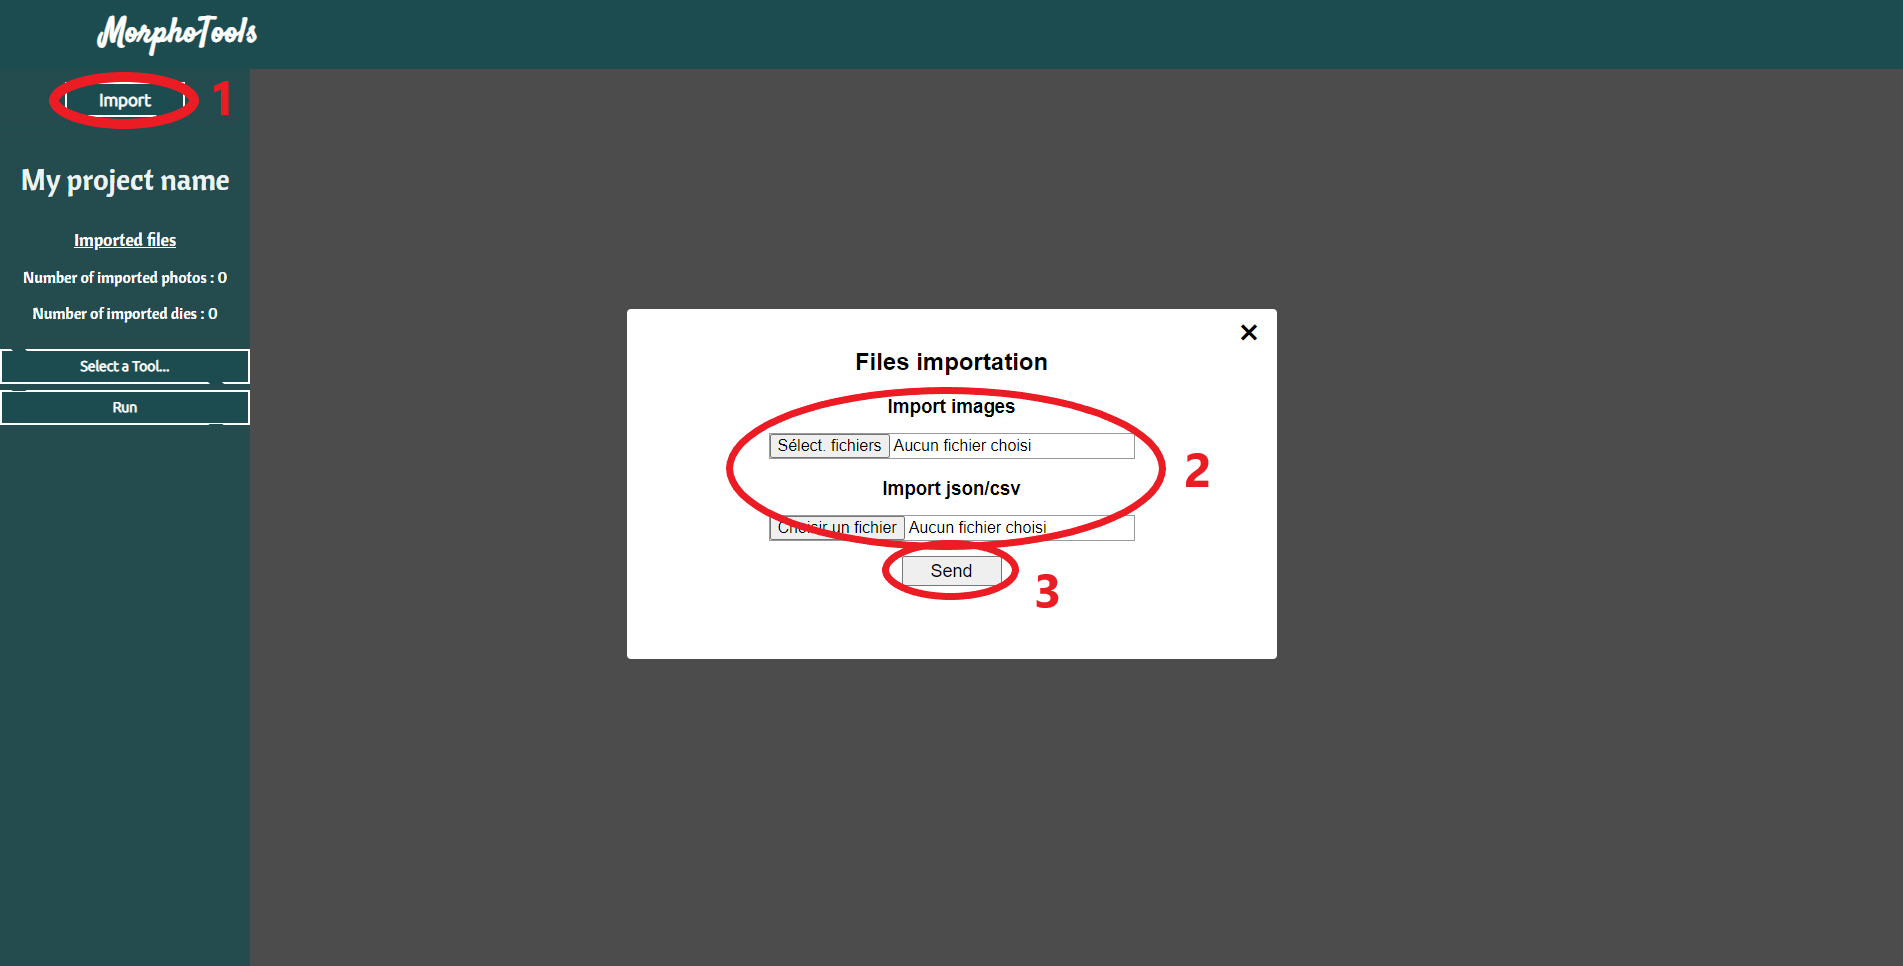
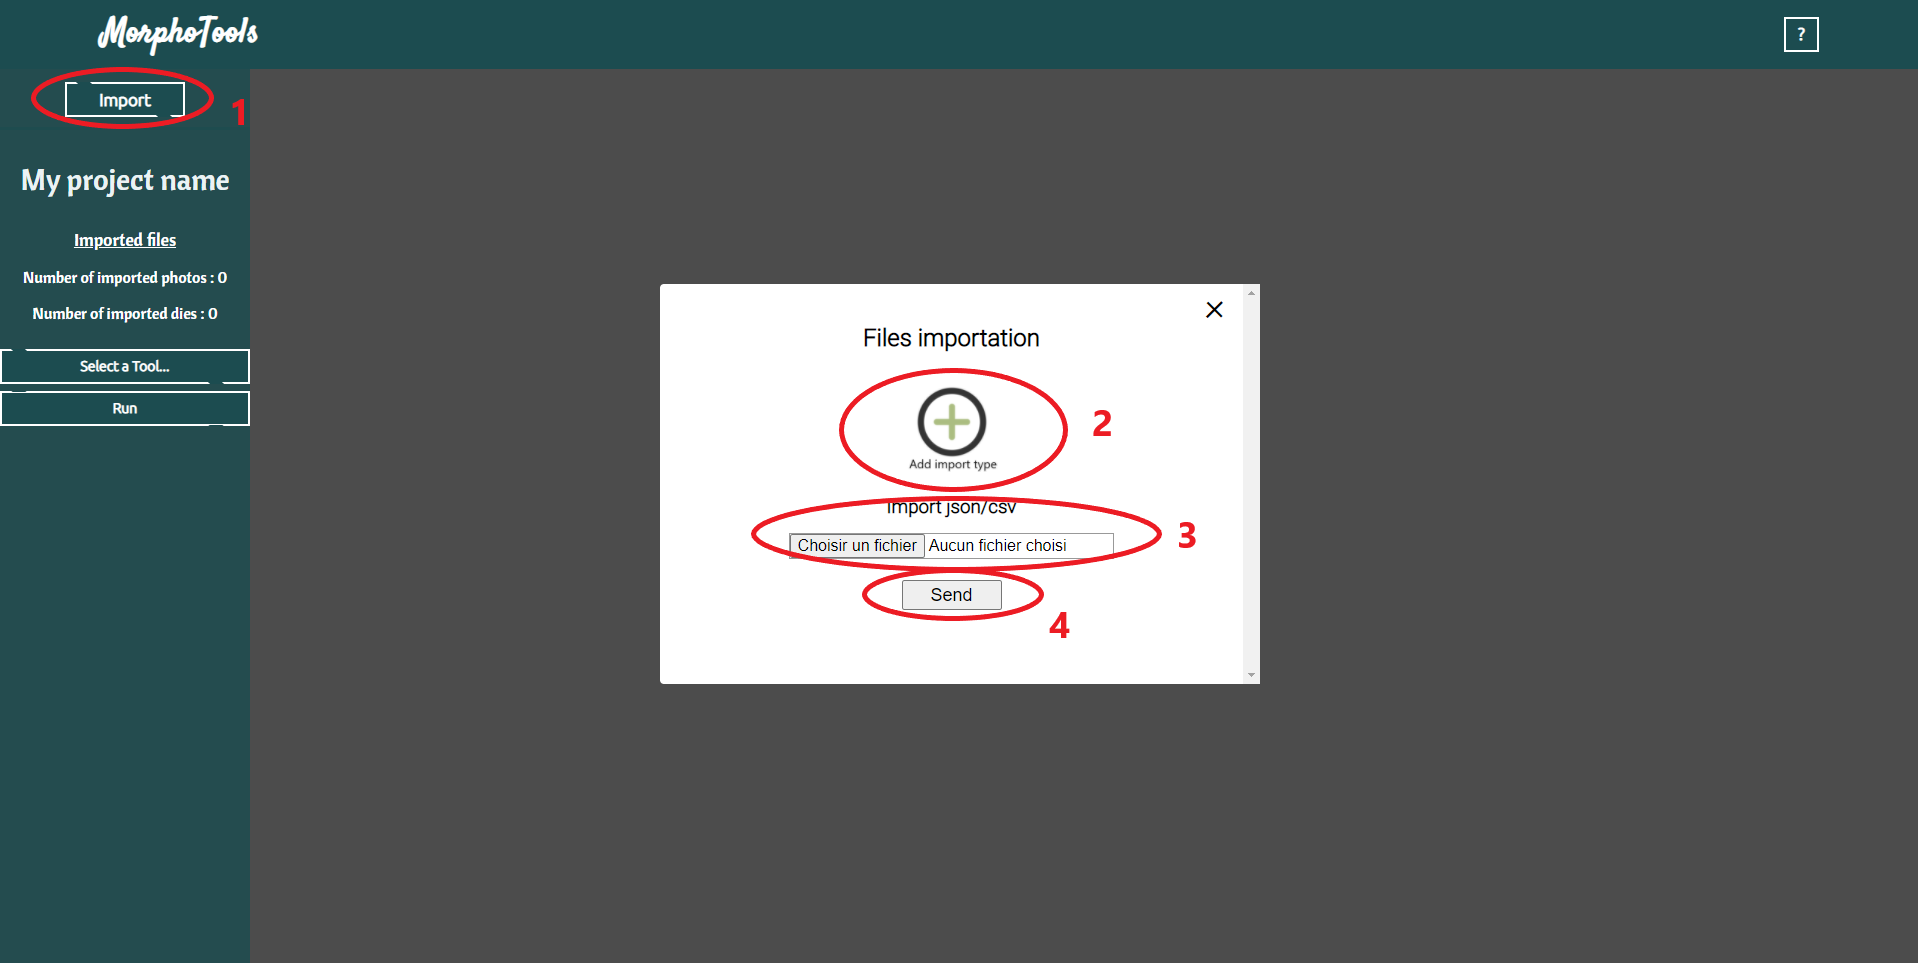
update help

diff --git a/help.html b/help.html
@@ -94,8 +94,8 @@
         </div>
         <div id = help_text>
             When you select a project (here My project name), you will have a new page. On this new page you will first find a button "Import" (1). 
-            Then you will have to select your images (png, jpg, ...) and your matrice (json or csv) (2).
-            Once all your files are selected, you can send them by clicking the "Send" button (3).
+            Then you will have to add channels for your pictures (1 to 4 max) (2). After that, you will have to choose your files : your pictures (png, jpg, ...) and your matrice (json or csv) (3).
+            Once all your files are selected, you can send them by clicking the "Send" button (4).
         </div>
         <figure id = img_frame>
             <img id = help_img src="images/help_import-file_1.png" height="500px">
